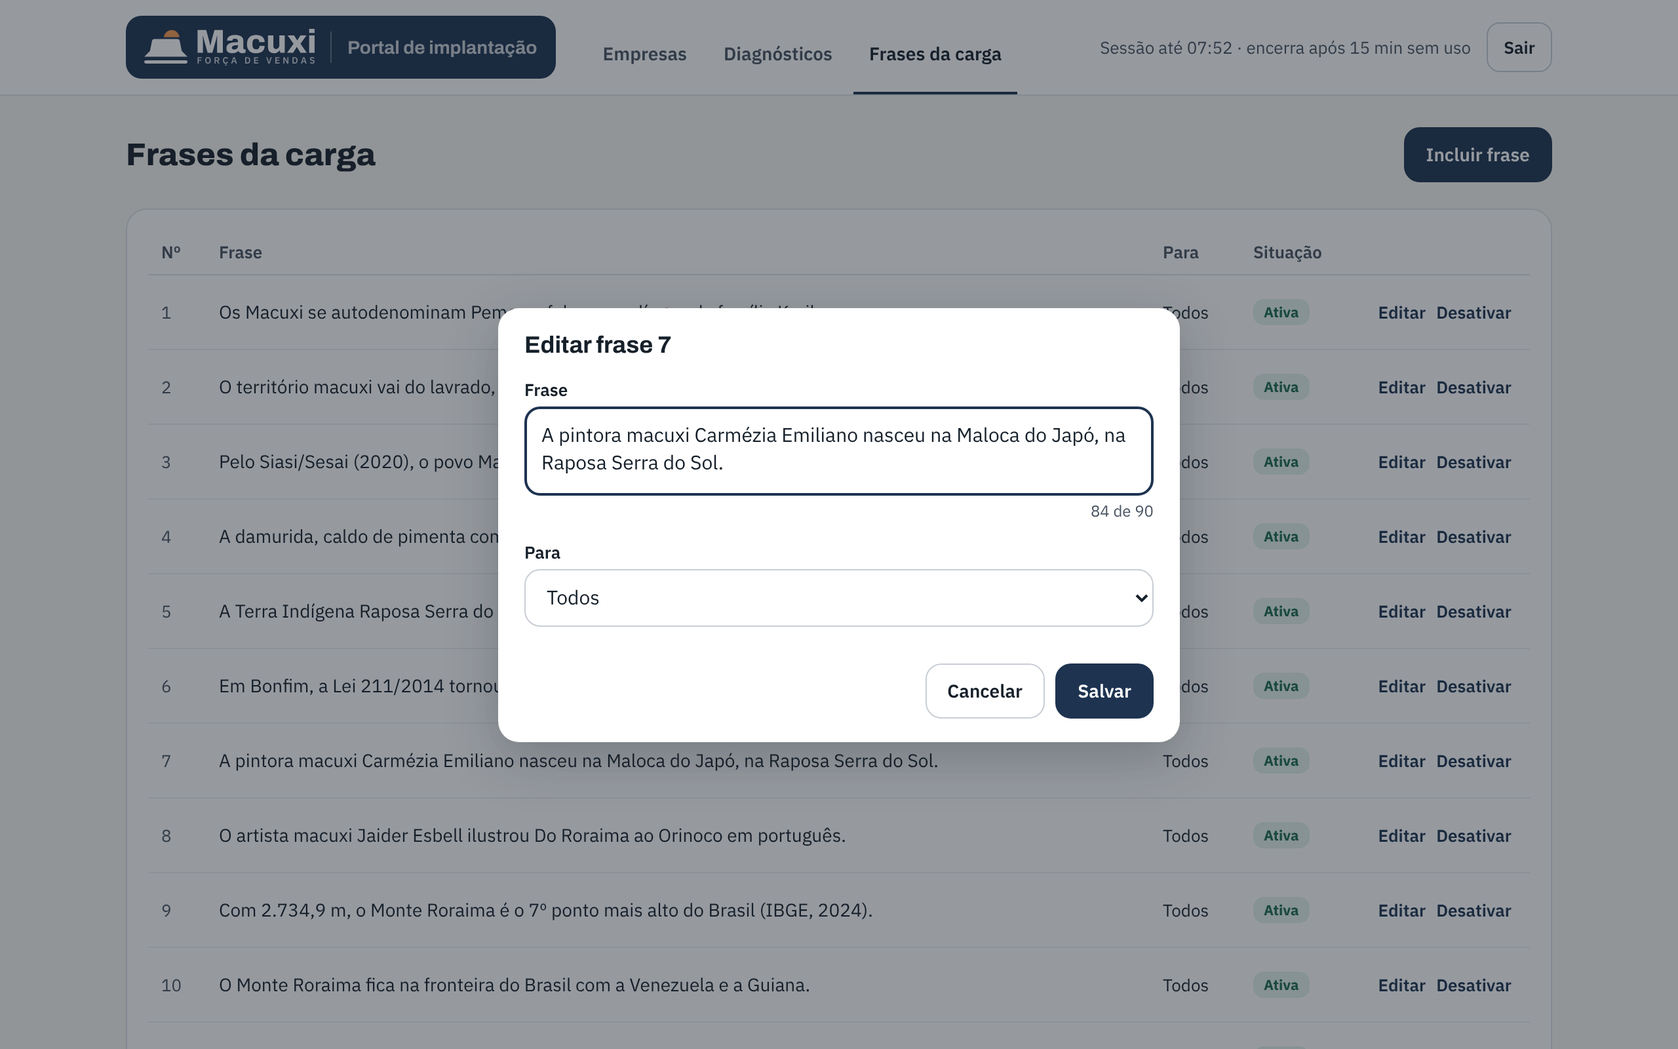
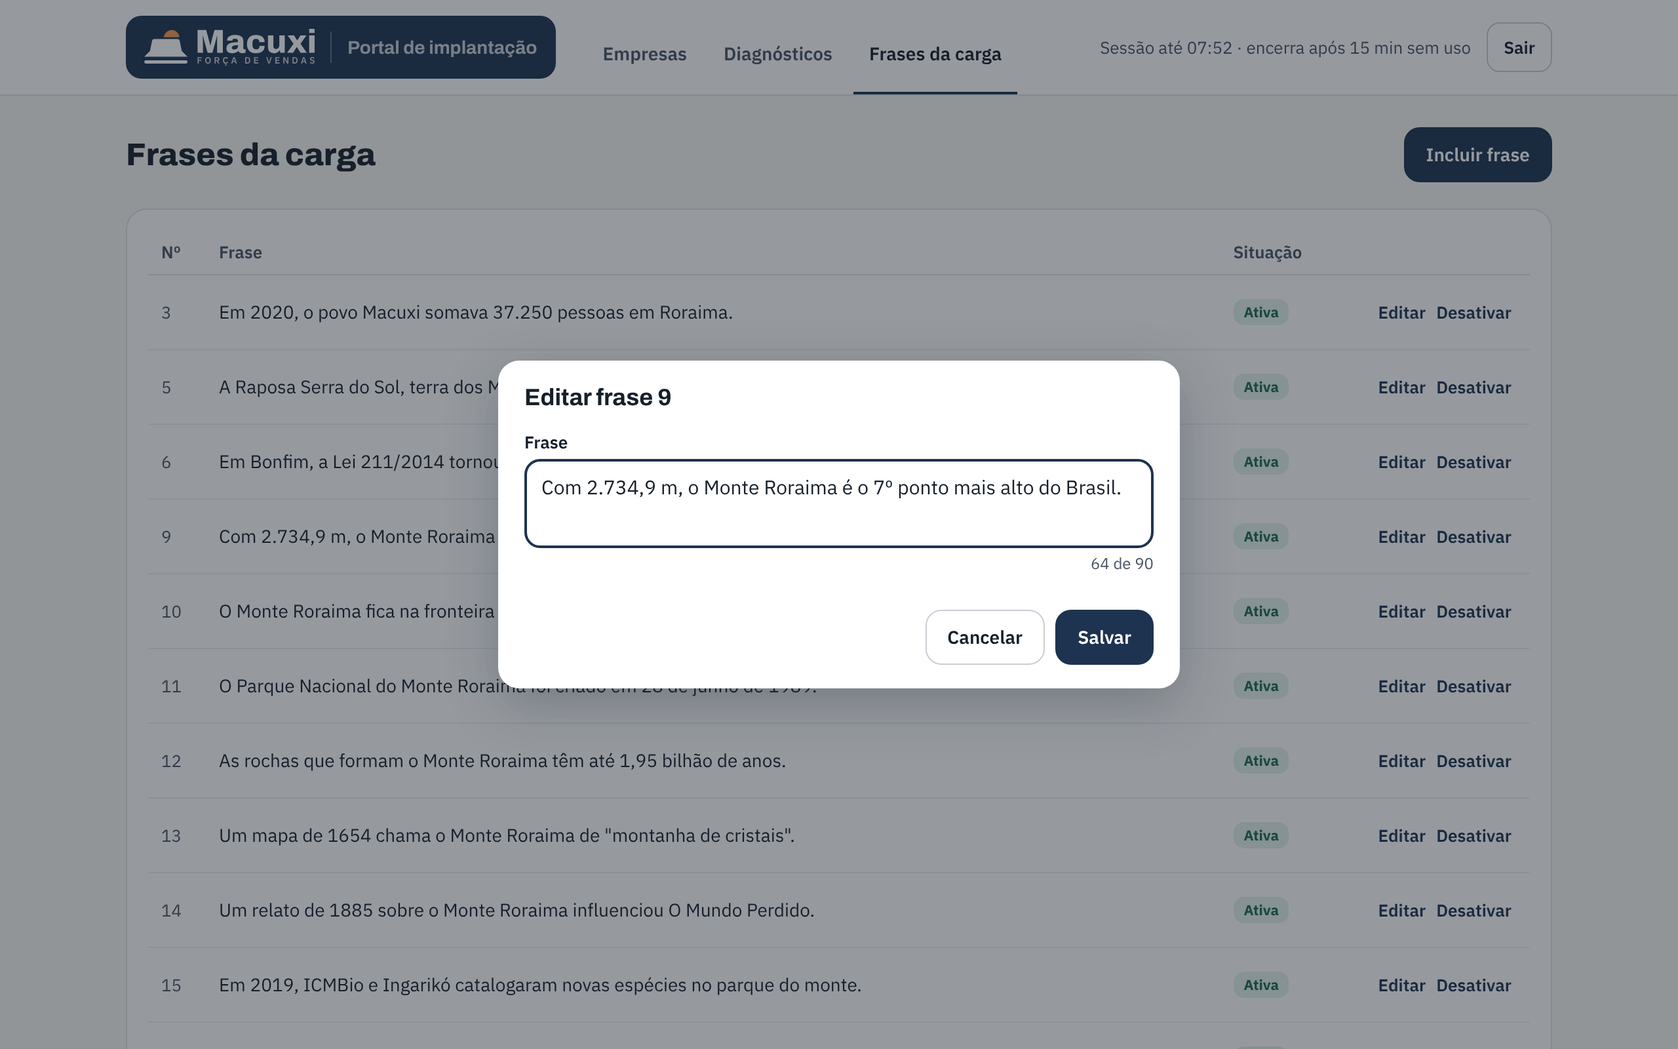
designer-ux — simulação da carga: frases de Roraima com os ajustes do corretor (RD-0482..0484) e da marca (MC-0081..0084)
Textos mais curtos e sem fonte na tela; nome de povo com maiúscula; frase 17 sem "é o
herói"; "narrativa da agricultura" na §6; sai a coluna e o campo "Para"; as 12 frases que
esperam a validação indígena entram inativas e o app sorteia entre as 18 ativas.

Agente: designer-ux

Claude-Session: https://claude.ai/code/session_0157qAhm1f7x6WWVnUm3N773

diff --git a/docs/design/carga-aviso-frases/config-frases.html b/docs/design/carga-aviso-frases/config-frases.html
@@ -69,56 +69,55 @@ select { height: 44px; padding: 0 12px; }
   <div class="ph"><h1>Frases da carga</h1><button class="btn prim">Incluir frase</button></div>
   <section class="panel">
     <table>
-      <thead><tr><th>Nº</th><th>Frase</th><th>Para</th><th>Situação</th><th></th></tr></thead>
+      <thead><tr><th>Nº</th><th>Frase</th><th>Situação</th><th></th></tr></thead>
       <tbody id="linhas"></tbody>
     </table>
   </section>
 </main>
 <div class="veu"><div class="dialog" role="dialog" aria-modal="true" aria-labelledby="dt">
-  <h2 id="dt">Editar frase 7</h2>
+  <h2 id="dt">Editar frase 9</h2>
   <div class="dcorpo">
-    <label class="rot">Frase<textarea>A pintora macuxi Carmézia Emiliano nasceu na Maloca do Japó, na Raposa Serra do Sol.</textarea><span class="ajuda">84 de 90</span></label>
-    <label class="rot">Para<select><option>Todos</option></select></label>
+    <label class="rot">Frase<textarea>Com 2.734,9 m, o Monte Roraima é o 7º ponto mais alto do Brasil.</textarea><span class="ajuda">64 de 90</span></label>
   </div>
   <div class="dpe"><button class="btn">Cancelar</button><button class="btn prim">Salvar</button></div>
 </div></div>
 <script>
 const FRASES = [
-{"n": 1, "p": "Todos", "t": "Os Macuxi se autodenominam Pemon e falam uma língua da família Karib.", "ativa": true},
-{"n": 2, "p": "Todos", "t": "O território macuxi vai do lavrado, ao sul, às serras com floresta, ao norte.", "ativa": true},
-{"n": 3, "p": "Todos", "t": "Pelo Siasi/Sesai (2020), o povo Macuxi tem 37.250 pessoas em Roraima.", "ativa": true},
-{"n": 4, "p": "Todos", "t": "A damurida, caldo de pimenta com peixe ou carne, é chamada de tuma pelos Macuxi.", "ativa": true},
-{"n": 5, "p": "Todos", "t": "A Terra Indígena Raposa Serra do Sol, dos Macuxi e vizinhos, foi homologada em 2005.", "ativa": true},
-{"n": 6, "p": "Todos", "t": "Em Bonfim, a Lei 211/2014 tornou o macuxi e o wapichana línguas cooficiais.", "ativa": true},
-{"n": 7, "p": "Todos", "t": "A pintora macuxi Carmézia Emiliano nasceu na Maloca do Japó, na Raposa Serra do Sol.", "ativa": true},
-{"n": 8, "p": "Todos", "t": "O artista macuxi Jaider Esbell ilustrou Do Roraima ao Orinoco em português.", "ativa": true},
-{"n": 9, "p": "Todos", "t": "Com 2.734,9 m, o Monte Roraima é o 7º ponto mais alto do Brasil (IBGE, 2024).", "ativa": true},
-{"n": 10, "p": "Todos", "t": "O Monte Roraima fica na fronteira do Brasil com a Venezuela e a Guiana.", "ativa": true},
-{"n": 11, "p": "Todos", "t": "O Parque Nacional do Monte Roraima foi criado em 28 de junho de 1989.", "ativa": true},
-{"n": 12, "p": "Todos", "t": "As rochas que formam o Monte Roraima têm até 1,95 bilhão de anos.", "ativa": true},
-{"n": 13, "p": "Todos", "t": "Um mapa de 1654, de Pierre Du Val, chama o Monte Roraima de \"montanha de cristais\".", "ativa": true},
-{"n": 14, "p": "Todos", "t": "Um relato de 1885 sobre o Monte Roraima influenciou O Mundo Perdido.", "ativa": true},
-{"n": 15, "p": "Todos", "t": "Em 2019, ICMBio e Ingarikó catalogaram novas espécies no parque do monte.", "ativa": true},
-{"n": 16, "p": "Todos", "t": "Os Ingarikó e os Pemon formam um mesmo mundo cultural em torno do Monte Roraima.", "ativa": true},
-{"n": 17, "p": "Todos", "t": "Makunaimã é o herói macuxi e pemon; Macunaíma é o livro de Mário de Andrade.", "ativa": true},
-{"n": 18, "p": "Todos", "t": "Segundo a tradição macuxi, Makunaimã e Enxikirang são irmãos, filhos do Sol, Wei.", "ativa": true},
-{"n": 19, "p": "Todos", "t": "Segundo a tradição macuxi, o Monte Roraima é o tronco da árvore Wazacá.", "ativa": true},
-{"n": 20, "p": "Todos", "t": "Segundo a tradição taurepang, Makunaimã fez gente e bichos de barro.", "ativa": true},
-{"n": 21, "p": "Todos", "t": "Segundo a tradição ingarikó, o povo descende de Siikë, irmão de Makunaimã.", "ativa": true},
-{"n": 22, "p": "Todos", "t": "Segundo a tradição ingarikó, as plantas cultivadas vêm das sementes da Wayaka.", "ativa": true},
-{"n": 23, "p": "Todos", "t": "Entre 1911 e 1913, Koch-Grünberg registrou narrativas de Makunaimã.", "ativa": true},
-{"n": 24, "p": "Todos", "t": "A peça Makunaimã (2019) reúne autores macuxi, taurepang e wapichana.", "ativa": true},
-{"n": 25, "p": "Todos", "t": "O Forte São Joaquim, de 1775, é o único bem tombado pelo Iphan em Roraima.", "ativa": true},
-{"n": 26, "p": "Todos", "t": "Na Pedra Pintada, em Pacaraima, há marcas humanas de cerca de 4.000 anos.", "ativa": false},
-{"n": 27, "p": "Todos", "t": "Roraima nasceu em 1943 como Território do Rio Branco; o nome veio em 1962.", "ativa": false},
-{"n": 28, "p": "Todos", "t": "O lavrado, a savana de Roraima, cobre cerca de 17% do estado (Embrapa).", "ativa": true},
-{"n": 29, "p": "Todos", "t": "O ponto mais ao norte do Brasil é a nascente do rio Ailã, em Uiramutã, Roraima (IBGE).", "ativa": true},
-{"n": 30, "p": "Todos", "t": "Uiramutã tem a maior proporção de indígenas do Brasil: 96,6% (Censo 2022).", "ativa": false}];
+{"n": 1, "t": "Os Macuxi se autodenominam Pemon e falam uma língua da família Karib.", "ativa": false},
+{"n": 2, "t": "O território Macuxi vai do lavrado, ao sul, às serras com floresta, ao norte.", "ativa": false},
+{"n": 3, "t": "Em 2020, o povo Macuxi somava 37.250 pessoas em Roraima.", "ativa": true},
+{"n": 4, "t": "A damurida, caldo de pimenta com peixe ou carne, os Macuxi chamam de tuma.", "ativa": false},
+{"n": 5, "t": "A Raposa Serra do Sol, terra dos Macuxi e vizinhos, foi homologada em 2005.", "ativa": true},
+{"n": 6, "t": "Em Bonfim, a Lei 211/2014 tornou cooficiais as línguas Macuxi e Wapichana.", "ativa": true},
+{"n": 7, "t": "A pintora Macuxi Carmézia Emiliano nasceu na Maloca do Japó.", "ativa": false},
+{"n": 8, "t": "O artista Macuxi Jaider Esbell ilustrou Do Roraima ao Orinoco em português.", "ativa": false},
+{"n": 9, "t": "Com 2.734,9 m, o Monte Roraima é o 7º ponto mais alto do Brasil.", "ativa": true},
+{"n": 10, "t": "O Monte Roraima fica na fronteira do Brasil com a Venezuela e a Guiana.", "ativa": true},
+{"n": 11, "t": "O Parque Nacional do Monte Roraima foi criado em 28 de junho de 1989.", "ativa": true},
+{"n": 12, "t": "As rochas que formam o Monte Roraima têm até 1,95 bilhão de anos.", "ativa": true},
+{"n": 13, "t": "Um mapa de 1654 chama o Monte Roraima de \"montanha de cristais\".", "ativa": true},
+{"n": 14, "t": "Um relato de 1885 sobre o Monte Roraima influenciou O Mundo Perdido.", "ativa": true},
+{"n": 15, "t": "Em 2019, ICMBio e Ingarikó catalogaram novas espécies no parque do monte.", "ativa": true},
+{"n": 16, "t": "Ingarikó e Pemon formam um só mundo cultural em torno do Monte Roraima.", "ativa": false},
+{"n": 17, "t": "Makunaimã, das narrativas Macuxi e Pemon, inspirou Mário de Andrade.", "ativa": false},
+{"n": 18, "t": "Segundo a tradição Macuxi, Makunaimã e Enxikirang são irmãos, filhos do Sol.", "ativa": false},
+{"n": 19, "t": "Segundo a tradição Macuxi, o Monte Roraima é o tronco da árvore Wazacá.", "ativa": false},
+{"n": 20, "t": "Segundo a tradição Taurepang, Makunaimã fez gente e bichos de barro.", "ativa": false},
+{"n": 21, "t": "Segundo a tradição Ingarikó, o povo descende de Siikë, irmão de Makunaimã.", "ativa": false},
+{"n": 22, "t": "Segundo a tradição Ingarikó, as plantas cultivadas vêm das sementes da Wayaka.", "ativa": false},
+{"n": 23, "t": "Entre 1911 e 1913, Koch-Grünberg registrou narrativas de Makunaimã.", "ativa": true},
+{"n": 24, "t": "A peça Makunaimã (2019) reúne autores Macuxi, Taurepang e Wapichana.", "ativa": true},
+{"n": 25, "t": "O Forte São Joaquim, de 1775, é o único bem tombado pelo Iphan em Roraima.", "ativa": true},
+{"n": 26, "t": "Na Pedra Pintada, em Pacaraima, há marcas humanas de cerca de 4.000 anos.", "ativa": true},
+{"n": 27, "t": "Roraima nasceu em 1943 como Território do Rio Branco; o nome veio em 1962.", "ativa": true},
+{"n": 28, "t": "O lavrado, a savana de Roraima, cobre cerca de 17% do estado.", "ativa": true},
+{"n": 29, "t": "O ponto mais ao norte do Brasil é a nascente do rio Ailã, em Uiramutã.", "ativa": true},
+{"n": 30, "t": "Uiramutã tem a maior proporção de indígenas do Brasil: 96,6% em 2022.", "ativa": true}];
 if (location.hash === '#editar') document.body.classList.add('editar');
 // inativas no fim da lista (RD-0470)
 const ORDEM = FRASES.filter(f => f.ativa).concat(FRASES.filter(f => !f.ativa));
 document.getElementById('linhas').innerHTML = ORDEM.map(f => '<tr>' +
-  '<td class="n">' + f.n + '</td><td class="t">' + f.t + '</td><td>' + f.p + '</td>' +
+  '<td class="n">' + f.n + '</td><td class="t">' + f.t + '</td>' +
   '<td><span class="badge ' + (f.ativa ? 'ok">Ativa' : 'neu">Inativa') + '</span></td>' +
   '<td class="acoes"><button class="btn link">Editar</button><button class="btn link">' + (f.ativa ? 'Desativar' : 'Ativar') + '</button></td></tr>').join('');
 </script>

diff --git a/docs/design/carga-aviso-frases/carga-gestao.html b/docs/design/carga-aviso-frases/carga-gestao.html
@@ -7,7 +7,7 @@
   <div class="logo">
     <img src="../../marca/ativos/2026-11-12-v1/macuxi-logo-empilhado-positivo.svg" alt="Macuxi Força de Vendas">
     <p class="saudacao">Olá, Marta</p>
-    <p class="frase">A damurida, caldo de pimenta com peixe ou carne, é chamada de tuma pelos Macuxi.</p>
+    <p class="frase">O lavrado, a savana de Roraima, cobre cerca de 17% do estado.</p>
   </div>
   <div class="baixo">
     <div class="aviso" role="note">

diff --git a/docs/design/carga-aviso-frases/frases.md b/docs/design/carga-aviso-frases/frases.md
@@ -1,38 +1,38 @@
 # Frases da carga: as 30 iniciais (história e tradição de Roraima)
 
-> 2026-11-15 · designer-ux · tema pedido pelo dono do produto em R-20261115-071500-alexandre. Pesquisa conferida nas fontes
-> (a tabela com a fonte de cada frase está na `spec.md`, §6). Até 2 linhas de 280 dp na tela de carga (conferido no navegador,
-> IBM Plex Sans 14). Todas "Para: Todos". Narrativas sempre com "Segundo a tradição {povo},".
+> 2026-11-15 · designer-ux · tema pedido pelo dono do produto em R-20261115-071500-alexandre; pareceres do corretor (RD-0482 a
+> RD-0484) e da marca (MC-0081 a MC-0084) aplicados. Fonte de cada frase: `spec.md` §6. Todas cabem em 2 linhas de 280 dp
+> (IBM Plex Sans 14), com folga. As 12 inativas esperam a validação de pessoa ou organização indígena (spec §4).
 
-| Nº | Tema | Frase |
-|---|---|---|
-| 1 | Macuxi | Os Macuxi se autodenominam Pemon e falam uma língua da família Karib. |
-| 2 | Macuxi | O território macuxi vai do lavrado, ao sul, às serras com floresta, ao norte. |
-| 3 | Macuxi | Pelo Siasi/Sesai (2020), o povo Macuxi tem 37.250 pessoas em Roraima. |
-| 4 | Macuxi | A damurida, caldo de pimenta com peixe ou carne, é chamada de tuma pelos Macuxi. |
-| 5 | Macuxi | A Terra Indígena Raposa Serra do Sol, dos Macuxi e vizinhos, foi homologada em 2005. |
-| 6 | Macuxi | Em Bonfim, a Lei 211/2014 tornou o macuxi e o wapichana línguas cooficiais. |
-| 7 | Macuxi | A pintora macuxi Carmézia Emiliano nasceu na Maloca do Japó, na Raposa Serra do Sol. |
-| 8 | Macuxi | O artista macuxi Jaider Esbell ilustrou Do Roraima ao Orinoco em português. |
-| 9 | Monte Roraima | Com 2.734,9 m, o Monte Roraima é o 7º ponto mais alto do Brasil (IBGE, 2024). |
-| 10 | Monte Roraima | O Monte Roraima fica na fronteira do Brasil com a Venezuela e a Guiana. |
-| 11 | Monte Roraima | O Parque Nacional do Monte Roraima foi criado em 28 de junho de 1989. |
-| 12 | Monte Roraima | As rochas que formam o Monte Roraima têm até 1,95 bilhão de anos. |
-| 13 | Monte Roraima | Um mapa de 1654, de Pierre Du Val, chama o Monte Roraima de "montanha de cristais". |
-| 14 | Monte Roraima | Um relato de 1885 sobre o Monte Roraima influenciou O Mundo Perdido. |
-| 15 | Monte Roraima | Em 2019, ICMBio e Ingarikó catalogaram novas espécies no parque do monte. |
-| 16 | Monte Roraima | Os Ingarikó e os Pemon formam um mesmo mundo cultural em torno do Monte Roraima. |
-| 17 | Makunaimã | Makunaimã é o herói macuxi e pemon; Macunaíma é o livro de Mário de Andrade. |
-| 18 | Makunaimã | Segundo a tradição macuxi, Makunaimã e Enxikirang são irmãos, filhos do Sol, Wei. |
-| 19 | Makunaimã | Segundo a tradição macuxi, o Monte Roraima é o tronco da árvore Wazacá. |
-| 20 | Makunaimã | Segundo a tradição taurepang, Makunaimã fez gente e bichos de barro. |
-| 21 | Makunaimã | Segundo a tradição ingarikó, o povo descende de Siikë, irmão de Makunaimã. |
-| 22 | Makunaimã | Segundo a tradição ingarikó, as plantas cultivadas vêm das sementes da Wayaka. |
-| 23 | Makunaimã | Entre 1911 e 1913, Koch-Grünberg registrou narrativas de Makunaimã. |
-| 24 | Makunaimã | A peça Makunaimã (2019) reúne autores macuxi, taurepang e wapichana. |
-| 25 | Roraima | O Forte São Joaquim, de 1775, é o único bem tombado pelo Iphan em Roraima. |
-| 26 | Roraima | Na Pedra Pintada, em Pacaraima, há marcas humanas de cerca de 4.000 anos. |
-| 27 | Roraima | Roraima nasceu em 1943 como Território do Rio Branco; o nome veio em 1962. |
-| 28 | Roraima | O lavrado, a savana de Roraima, cobre cerca de 17% do estado (Embrapa). |
-| 29 | Roraima | O ponto mais ao norte do Brasil é a nascente do rio Ailã, em Uiramutã, Roraima (IBGE). |
-| 30 | Roraima | Uiramutã tem a maior proporção de indígenas do Brasil: 96,6% (Censo 2022). |
+| Nº | Tema | Situação inicial | Frase |
+|---|---|---|---|
+| 1 | Macuxi | Inativa | Os Macuxi se autodenominam Pemon e falam uma língua da família Karib. |
+| 2 | Macuxi | Inativa | O território Macuxi vai do lavrado, ao sul, às serras com floresta, ao norte. |
+| 3 | Macuxi | Ativa | Em 2020, o povo Macuxi somava 37.250 pessoas em Roraima. |
+| 4 | Macuxi | Inativa | A damurida, caldo de pimenta com peixe ou carne, os Macuxi chamam de tuma. |
+| 5 | Macuxi | Ativa | A Raposa Serra do Sol, terra dos Macuxi e vizinhos, foi homologada em 2005. |
+| 6 | Macuxi | Ativa | Em Bonfim, a Lei 211/2014 tornou cooficiais as línguas Macuxi e Wapichana. |
+| 7 | Macuxi | Inativa | A pintora Macuxi Carmézia Emiliano nasceu na Maloca do Japó. |
+| 8 | Macuxi | Inativa | O artista Macuxi Jaider Esbell ilustrou Do Roraima ao Orinoco em português. |
+| 9 | Monte Roraima | Ativa | Com 2.734,9 m, o Monte Roraima é o 7º ponto mais alto do Brasil. |
+| 10 | Monte Roraima | Ativa | O Monte Roraima fica na fronteira do Brasil com a Venezuela e a Guiana. |
+| 11 | Monte Roraima | Ativa | O Parque Nacional do Monte Roraima foi criado em 28 de junho de 1989. |
+| 12 | Monte Roraima | Ativa | As rochas que formam o Monte Roraima têm até 1,95 bilhão de anos. |
+| 13 | Monte Roraima | Ativa | Um mapa de 1654 chama o Monte Roraima de "montanha de cristais". |
+| 14 | Monte Roraima | Ativa | Um relato de 1885 sobre o Monte Roraima influenciou O Mundo Perdido. |
+| 15 | Monte Roraima | Ativa | Em 2019, ICMBio e Ingarikó catalogaram novas espécies no parque do monte. |
+| 16 | Monte Roraima | Inativa | Ingarikó e Pemon formam um só mundo cultural em torno do Monte Roraima. |
+| 17 | Makunaimã | Inativa | Makunaimã, das narrativas Macuxi e Pemon, inspirou Mário de Andrade. |
+| 18 | Makunaimã | Inativa | Segundo a tradição Macuxi, Makunaimã e Enxikirang são irmãos, filhos do Sol. |
+| 19 | Makunaimã | Inativa | Segundo a tradição Macuxi, o Monte Roraima é o tronco da árvore Wazacá. |
+| 20 | Makunaimã | Inativa | Segundo a tradição Taurepang, Makunaimã fez gente e bichos de barro. |
+| 21 | Makunaimã | Inativa | Segundo a tradição Ingarikó, o povo descende de Siikë, irmão de Makunaimã. |
+| 22 | Makunaimã | Inativa | Segundo a tradição Ingarikó, as plantas cultivadas vêm das sementes da Wayaka. |
+| 23 | Makunaimã | Ativa | Entre 1911 e 1913, Koch-Grünberg registrou narrativas de Makunaimã. |
+| 24 | Makunaimã | Ativa | A peça Makunaimã (2019) reúne autores Macuxi, Taurepang e Wapichana. |
+| 25 | Roraima | Ativa | O Forte São Joaquim, de 1775, é o único bem tombado pelo Iphan em Roraima. |
+| 26 | Roraima | Ativa | Na Pedra Pintada, em Pacaraima, há marcas humanas de cerca de 4.000 anos. |
+| 27 | Roraima | Ativa | Roraima nasceu em 1943 como Território do Rio Branco; o nome veio em 1962. |
+| 28 | Roraima | Ativa | O lavrado, a savana de Roraima, cobre cerca de 17% do estado. |
+| 29 | Roraima | Ativa | O ponto mais ao norte do Brasil é a nascente do rio Ailã, em Uiramutã. |
+| 30 | Roraima | Ativa | Uiramutã tem a maior proporção de indígenas do Brasil: 96,6% em 2022. |

diff --git a/docs/design/carga-aviso-frases/spec.md b/docs/design/carga-aviso-frases/spec.md
@@ -37,27 +37,30 @@ De cima para baixo:
 Sem cor nova e sem movimento novo (a área de baixo já esmaece em 240 ms; com "reduzir movimento", nada anima).
 
 ## 2. Sorteio (offline)
-- Uma frase por carga, sorteada quando a tela monta, entre as **ativas** do público do usuário (§4). Não troca durante a carga.
+- Uma frase por carga, sorteada quando a tela monta, entre as **ativas**. Não troca durante a carga.
 - Não repete a última mostrada no aparelho (guarda só o id dela).
-- A lista vem no sync e fica no aparelho. Na primeira carga, antes de qualquer sync, o app usa as 30 iniciais que vão no
-  bundle (`frases.md`). Sem nenhuma ativa, a frase não aparece.
+- A lista vem no sync e fica no aparelho. Na primeira carga, antes de qualquer sync, o app usa as ativas das 30 iniciais que
+  vão no bundle (`frases.md`; hoje 18). Sem nenhuma ativa, a frase não aparece.
 
 ## 3. Portal `config.` · Frases da carga (só o time Macuxi, super-admin)
 - **Menu:** novo item "Frases da carga" depois de "Diagnósticos" (`MENU_TIME_MACUXI`), na `MolduraPortal`.
 - **Título:** `PageHeader` "Frases da carga", sem subtítulo; ação principal (única da tela) **"Incluir frase"** (`Button primary`).
-- **`Panel`** com a tabela (`th`/`td` do kit): **Nº** · **Frase** · **Para** (Vendedor, Promotor, Gestão, Todos; as 30 iniciais são "Todos") ·
-  **Situação** (`Badge` success "Ativa" / neutral "Inativa") · links "Editar" e "Desativar" / "Ativar". As ativas vêm primeiro,
+- **`Panel`** com a tabela (`th`/`td` do kit): **Nº** · **Frase** · **Situação** (`Badge` success "Ativa" / neutral "Inativa") · links "Editar" e "Desativar" / "Ativar". As ativas vêm primeiro,
   pelo Nº; as inativas no fim. Ativar e desativar são imediatos e reversíveis, sem confirmação; a situação muda só por esse link.
 - **Incluir / Editar** (`Dialog` do kit): título "Incluir frase" ou "Editar frase {nº}"; campo **Frase** (área de texto que
-  para em 90 caracteres, contador "n de 90"); **Para** (lista); "Cancelar" e **"Salvar"**. A frase incluída nasce ativa.
+  para em 90 caracteres, contador "n de 90"); "Cancelar" e **"Salvar"**. A frase incluída nasce ativa.
   Erros na linha do campo: "Escreva a frase." · "Essa frase já está na lista."
 - Sem excluir (desativar basta); não foi pedido.
 
 ## 4. Para o dono do produto decidir
 - **Tema (R-20261115-071500-alexandre):** as 30 frases são sobre a história e a tradição de Roraima: 8 sobre o povo Macuxi,
   8 sobre o Monte Roraima, 8 sobre Makunaimã e 6 sobre outros aspectos do estado (80% nos três temas principais).
-- **Coluna "Para":** o tema não depende do perfil, então as 30 são "Todos". A coluna fica para uma frase futura de um perfil só.
-  Se o dono do produto preferir, ela sai do portal e do sorteio.
+- **Validação indígena (recomendação do parecer da marca de 15/11):** 18 frases entram **ativas** (paisagem, natureza e
+  história documentada: 3, 5, 6, 9 a 15 e 23 a 30). As 12 que falam do povo e das narrativas (1, 2, 4, 7, 8 e 16 a 22) entram
+  **inativas** no cadastro inicial e só são ativadas depois da validação de pessoa ou organização indígena que o dono do produto
+  escolher (por exemplo, uma organização que reúna os povos Macuxi, Ingarikó, Taurepang e Wapichana). As frases 7 (Carmézia
+  Emiliano) e 8 (Jaider Esbell) pedem também a concordância da artista ou de quem responde pela obra; sem ela, são trocadas.
+  O app sorteia entre as 18 ativas.
 - As frases valem para todas as empresas (cadastro do super-admin); frase por empresa não foi pedida.
 
 ## 5. Na aprovação
@@ -69,7 +72,8 @@ Sem cor nova e sem movimento novo (a área de baixo já esmaece em 240 ms; com "
 
 ## 6. Fontes
 Cada fato foi conferido na fonte citada (pesquisa de 15/11/2026). Nº da pesquisa = número da candidata na lista de 40
-(R = reserva). Regras de redação (parecer da marca `docs/marca/pareceres/2026-11-15-carga-frases.md`): narrativa com
+(R = reserva). A fonte não vai no texto da tela; quando o número depende do ano, a frase traz o ano (RD-0483, MC-0084).
+Nome de povo sempre com inicial maiúscula (MC-0081). Regras de redação (parecer da marca `docs/marca/pareceres/2026-11-15-carga-frases.md`): narrativa com
 "Segundo a tradição {povo},"; sem "mito" no sentido de mentira, sem "índio", sem passado para um povo que existe hoje; nada
 sagrado ou ritual como curiosidade; nenhuma ligação com venda; "Makunaimã" numa grafia só (Macunaíma só para o livro de 1928).
 Ficaram de fora: o pajé e o parixara (xamanismo e ritual), o "Pikatënninan" (grafia não conferida) e o "Makunaimë".
@@ -97,7 +101,7 @@ Ficaram de fora: o pajé e o parixara (xamanismo e ritual), o "Pikatënninan" (g
 | 19 | Makunaimã | 25+26 | "Macuxi", seção "Cosmogonia", ISA · https://pib.socioambiental.org/pt/Povo:Macuxi |
 | 20 | Makunaimã | 28 | "Taurepang", ISA · https://pib.socioambiental.org/pt/Povo:Taurepang |
 | 21 | Makunaimã | 30 | "Ingarikó", ISA · https://pib.socioambiental.org/pt/Povo:Ingarik%C3%B3 |
-| 22 | Makunaimã | 31 | "Ingarikó", mito da agricultura (narrativa de 2017), ISA · https://pib.socioambiental.org/pt/Povo:Ingarik%C3%B3 |
+| 22 | Makunaimã | 31 | "Ingarikó", narrativa da agricultura (registrada em 2017), ISA · https://pib.socioambiental.org/pt/Povo:Ingarik%C3%B3 |
 | 23 | Makunaimã | 32 | Resenha de P. C. Albernaz (UFRR), Revista Pesquisa FAPESP nº 327, maio 2023 · https://revistapesquisa.fapesp.br/wp-content/uploads/2023/05/096_resenha_327.pdf |
 | 24 | Makunaimã | 33 | Jobim et al., Brasil/Brazil (UFRGS) · https://seer.ufrgs.br/index.php/brasilbrazil/article/download/149161/96406/670067 |
 | 25 | Roraima | 34 | Folder "Fique por dentro do patrimônio cultural de Roraima", Iphan-RR · https://www.gov.br/iphan/pt-br/superintendencias/roraima/FOLDERPCRR_PTBRDIGITAL1.pdf |
